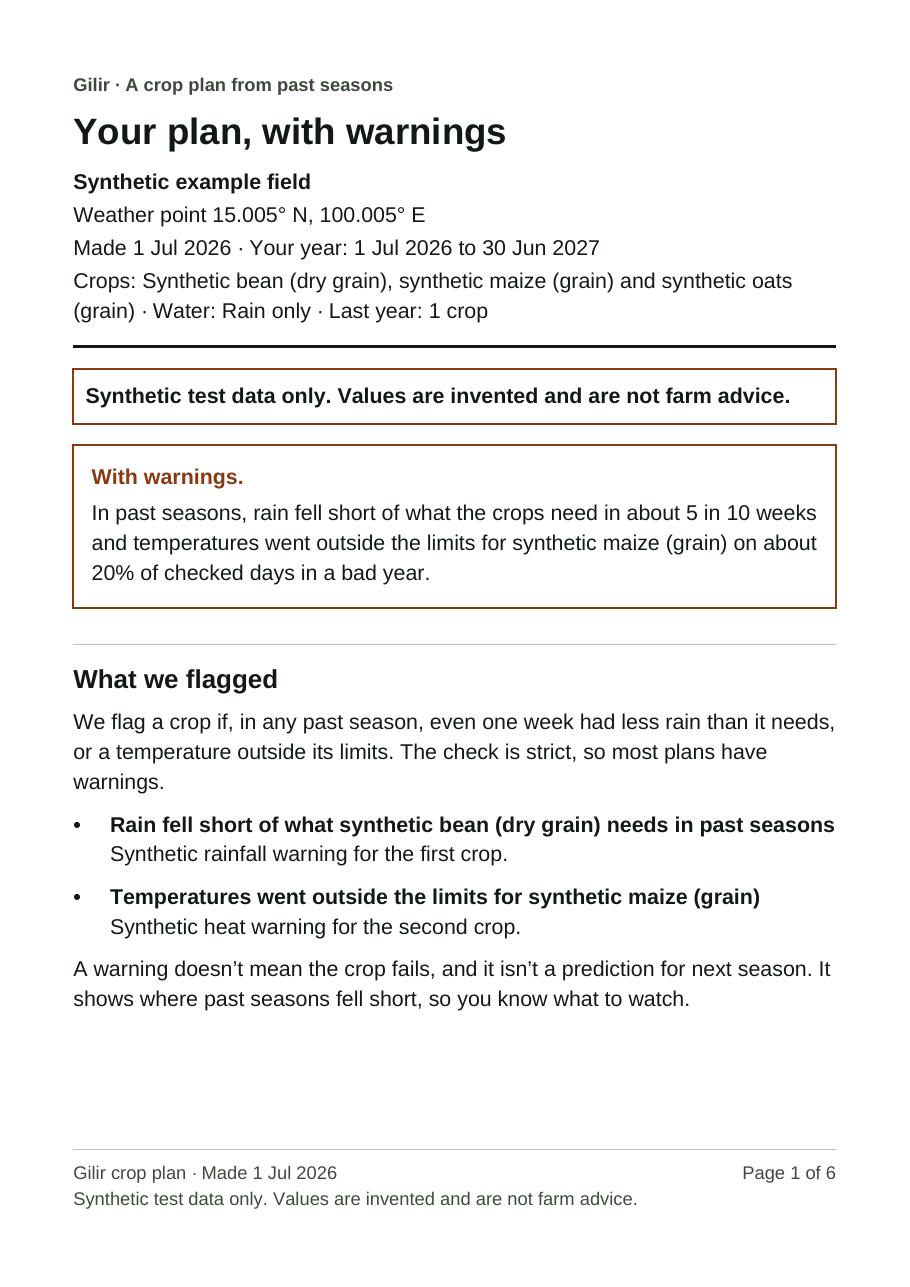
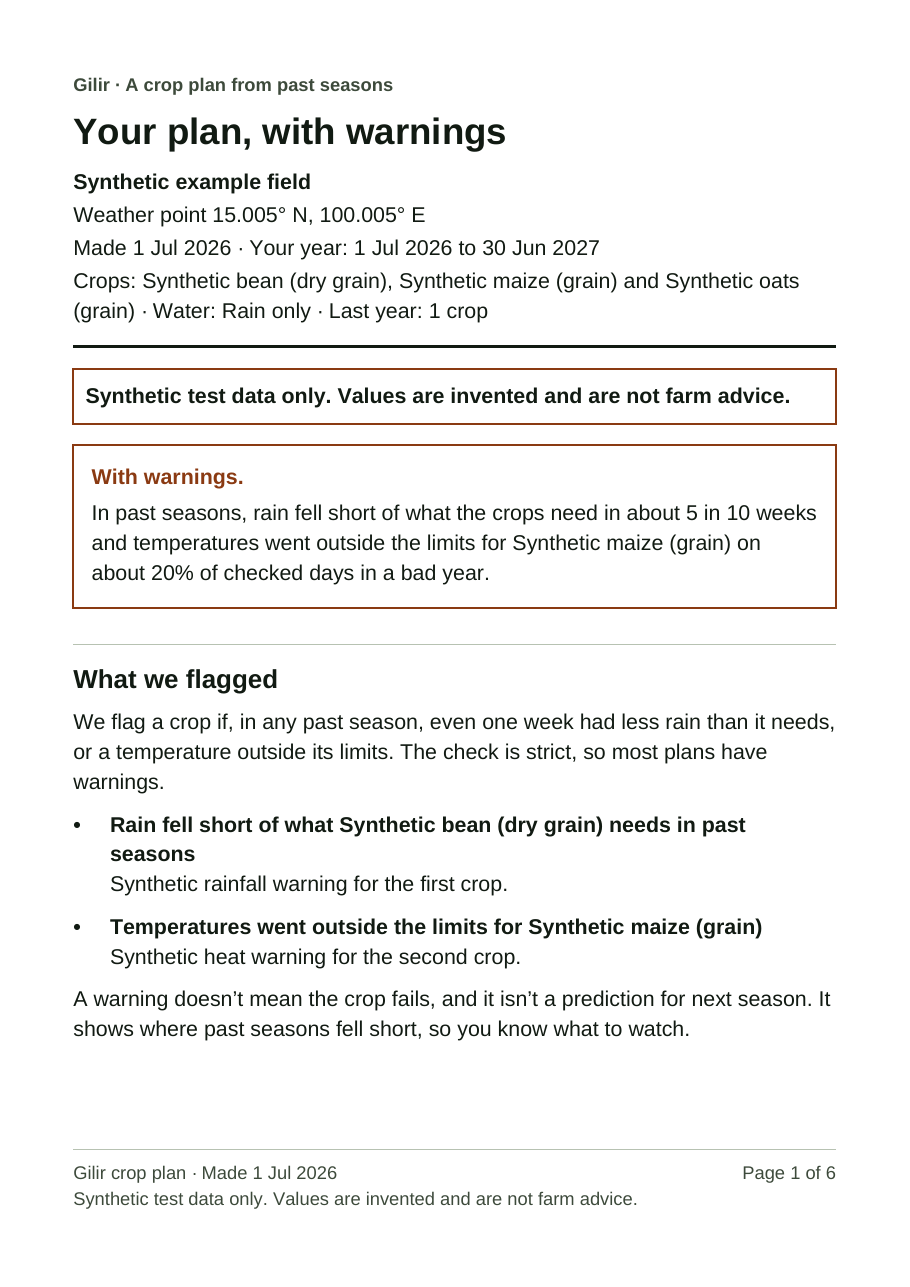
docs(F4): refresh the fixture evidence after the third review's fixes
variant-frozenLabels.pdf now prints each saved label with its own capital
and explains a changed plan on page 5, as page 4 does. Its pages 1 to 5
were rendered and looked at again; page 6 and the ten fixture pages
rendered byte-identical, and the three fixture PDFs are unchanged.
fixture-poppler.txt and fixture-playwright.txt hold the new runs, with
the Chromium full-device load among 23 storage cases.

README.md replaces the "too erratic for a test" note with that test,
records the real-engine re-render and the mutation runs, and says how
gap reasons, labels and no-plan sentences now read. inspection.md
records the changed pages and four real-engine pages looked at in
scratch.

Claude-Session: https://claude.ai/code/session_01DwR15oMch4WdwGA24XzcK2

diff --git a/docs/evidence/F4/README.md b/docs/evidence/F4/README.md
@@ -22,13 +22,13 @@ The browser checks ran in Chromium (Google Chrome for Testing 153.0.8010.12, hea
 
 | Key | Command | Observed |
 | --- | --- | --- |
-| V | `npx vitest run tests/frontend/persistence tests/frontend/pdf` | exit 0; 9 files, 217 tests passed; no `it.todo`, `it.skip`, `test.skip` or `test.fixme` is left in either folder |
+| V | `npx vitest run tests/frontend/persistence tests/frontend/pdf` | exit 0; 9 files, 231 tests passed; no `it.todo`, `it.skip`, `test.skip` or `test.fixme` is left in either folder |
 | C | `npm run check` | **FAILED**, exit 1, on a 4-core machine other sessions held at load average 13 to 28. Typegen and `tsc` were clean each time. The first run failed 28 tests in 11 files, every one a 5 s timeout or a Testing Library wait; the same 11 files rerun with `--maxWorkers=2` passed, 233 tests. After the every-variant export got a 30 s budget, two more runs each failed only `tests/engine/metrics/captured-climate.test.ts` "builds 25 seasons from bangkok's three committed product snapshots" at 5.7 s against 5 s, with 1,468 tests passed and 33 skipped. That file and `src/engine` are identical to `main`, and alone it passes in 2.9 s. `check:boundaries`, skipped after the test failure, passed alone: "Module boundaries passed." |
 | B | `npm run build` | exit 0; compiled in 9.3 s, TypeScript finished, every route built |
-| Ps | `env -u CLAUDECODE -u AI_AGENT PW_CHROMIUM=/opt/pw-browsers/chromium npx playwright test -c tests/frontend/persistence/playwright.config.ts storage.spec` | 22 passed, the version 2 restore and the newer-version cases from main among them ([output](fixture-playwright.txt)) |
+| Ps | `env -u CLAUDECODE -u AI_AGENT PW_CHROMIUM=/opt/pw-browsers/chromium npx playwright test -c tests/frontend/persistence/playwright.config.ts storage.spec` | 23 passed, the version 2 restore, the newer-version cases from main and the full-device load among them ([output](fixture-playwright.txt)) |
 | Pd | the same with `download.spec` | 7 passed ([output](fixture-playwright.txt)) |
-| E | `node --import tsx tests/frontend/pdf/evidence.ts docs/evidence/F4` | the four PDFs written. The three fixture files are byte-identical to the ones committed before the merge with main and the frozen-label change, and Pd checks each download against a fresh node render byte for byte. With `--all` and another folder it writes all 22 (6 states, 15 variants, the plan on Letter). The 21 that existed before the frozen-label change are byte-identical to the same 21 rendered from ac0a9b9 |
-| | `pdftoppm -r 110 -png <name>.pdf <name>` for the four committed PDFs | 16 page PNGs. After the frozen-label change the ten fixture pages rendered byte-identical, and the six `variant-frozenLabels` pages are new. (After the second review's fixes, only plan pages 3 and 4, warning plan page 4 and missing-data page 2 had changed, each by the new "Calculation methods" line.) |
+| E | `node --import tsx tests/frontend/pdf/evidence.ts docs/evidence/F4` | the four PDFs written. The three fixture files are byte-identical to the ones committed before the merge with main, the frozen-label change and the third review's fixes, and Pd checks each download against a fresh node render byte for byte. `variant-frozenLabels.pdf` changed in the third review's fixes and still has 6 pages. With `--all` and another folder it writes all 22 (6 states, 15 variants, the plan on Letter). The 21 that existed before the frozen-label change are byte-identical to the same 21 rendered from ac0a9b9 |
+| | `pdftoppm -r 110 -png <name>.pdf <name>` for the four committed PDFs | 16 page PNGs. After the frozen-label change the ten fixture pages rendered byte-identical, and the six `variant-frozenLabels` pages are new. After the third review's fixes the ten fixture pages and `variant-frozenLabels` page 6 rendered byte-identical, and its pages 1 to 5 changed. (After the second review's fixes, only plan pages 3 and 4, warning plan page 4 and missing-data page 2 had changed, each by the new "Calculation methods" line.) |
 | | `pdftoppm -r 110 -gray -png -f 1 -l 2 fixture-plan_with_warnings.pdf fixture-plan_with_warnings-gray` | 2 PNGs; every pixel was already gray, so they were stored as 8-bit gray with no loss. Rendered again after the second review's fixes, pixel-identical |
 | | `pdfinfo`, `pdffonts` and `pdftotext -layout` on the four committed PDFs | A4, 4, 4, 2 and 6 pages; title "Gilir crop plan, made 1 Jul 2026" or "Gilir status report, made 1 Jul 2026"; Creator and Producer "Gilir"; JavaScript no; fonts Helvetica and Helvetica-Bold, Type 1, WinAnsi, not embedded ([output](fixture-poppler.txt)) |
 | I | A person looked at every page image | [inspection.md](inspection.md): nothing clipped, every warning and source printed, the period stated, no calendar in the status report |
@@ -38,6 +38,8 @@ The browser checks ran in Chromium (Google Chrome for Testing 153.0.8010.12, hea
 | M | `git merge-tree --write-tree 73e1b6f HEAD`, then `tsc --noEmit`, `vitest run tests/frontend` and `check-boundaries.mjs` on that tree | 73e1b6f is the `main` that merged PR #42 at 54a76bc. Clean merge; `tsc` exit 0; 24 files, 533 tests passed, F1's onboarding tests among them; "Module boundaries passed." |
 | M2 | `git merge-tree --write-tree f79ffd7 HEAD` | **FAILED.** f79ffd7 is `main` after PR #45, the shared-contract change that made CompletedSnapshot version 2 and edited `storage.ts` and the persistence tests. The merge conflicts in `storage.ts`, `conventions.test.ts` and `record.test.ts`. A follow-up must resolve them before this branch can merge. Resolved by M3 |
 | M3 | `git fetch origin main`, then `git merge origin/main` (ec2ef22, after #45 and #46) | merged as ac0a9b9. The three conflicts were resolved keeping both sides. `storage.ts` takes `farmInputSchemaVersion`, `completedSnapshotSchemaVersion` and `jobCapabilitySchema` from the contracts and keeps this branch's version stamps, same-tick notice and full-device load; `conventions.test.ts` and `record.test.ts` expect both. Every other file the merge brought typechecks and builds (C, B) |
+| R3 | the review's 53 real engine snapshots (release fao56-hard-windows-2026-11-15 with the Bangkok and Pretoria weather in `docs/evidence/B2`; the Boise, Madrid and Fresno runs pair Bangkok weather with their own lookup point; each as version 1 and version 2), every fixture and every variant, rendered with `renderPdf` before and after the third review's fixes, then `pdftotext -layout` | Every version 1 text is unchanged except where a fix meant it to change. No line shows a crop ID made of several words on its own; 30 lines in 10 files did before. Such IDs remain only inside profile IDs in the "Crop profiles:" source list. Every "Checked against" line is in a plan; no status report has one. Scratch only, not kept |
+| Mut | each new test run against the code without its fix (the old line put back) | each one failed, and passed again with the fix. Storage: removing the same-tick wait fails the new dismiss test in Vitest and in Chromium; letting load swallow any write error fails the UnknownError and AbortError tests; dropping `writesOptional` fails the Chromium full-device test |
 
 ## What each card item rests on
 
@@ -45,11 +47,13 @@ The browser checks ran in Chromium (Google Chrome for Testing 153.0.8010.12, hea
 
 Snapshots of both contract versions are kept. Version 1 has no catalogue; version 2 carries the crop catalogue frozen when the plan completed. All six fixture states of each round trip through `localPlans` unchanged (`record.test.ts`), and a raw record holding either version restores after a reload in Chromium (`storage.spec`). Storage validates them with the shared `completedSnapshotSchema` and the active job with the shared `jobCapabilitySchema`, and declares no schema of its own.
 
-**A full device, blocked storage and an invalid old record give useful words, with no silent loss and no made-up defaults.** With a 256 KB quota, a save of incompressible data rejects with "This device has no room left to save Gilir.", the earlier state still loads, and a save that fits still works. In a sandboxed frame, `load`, `save` and `clear` reject with "This browser isn’t letting Gilir open or save your answers on this device." An old record written with raw IndexedDB loads its answers with the snapshot left out (null, never a default), the notice says "Your saved plan can’t be opened by this version of Gilir. Make the plan again to see it. Your answers are kept.", and the record sits unchanged in the set-aside record. A notice read in the same tick as that load, before it or after it, names the plan too. The notice survives a restart until dismissed and stays gone after a dismiss and a restart. Clearing site data while the page is open makes the next load resolve null, not reject. A newer database rejects "newer" and stays untouched. Every record, the state and the set-aside one, carries the FarmInput, CompletedSnapshot and RunManifest versions of the build that wrote it. So an older build refuses a newer build's records, or a snapshot whose input or run manifest is newer, instead of setting them aside or deleting them (`record.test.ts`). On a full device, a load that can't set an unreadable part aside still returns the readable answers, the notice still names that part, and the next save sets it aside first or rejects "full" with the old record kept. That is shown with the IndexedDB double in `record.test.ts`. Chromium's quota override makes that write fail only now and then. In three runs of a scratch probe with a 240 KB record and seven quotas from 380 to 600 KB, the load's write failed at three quotas, then two, then none. At the other quotas the record itself couldn't be written, or the load's write fit. Each time it failed, the notice named the plan. That is too erratic for a test. Another tab's upgrade is not blocked. A tab holding the database stops a save at the 5 s limit, and that save changed nothing. The farmer sees these words only once F1 shows them, so the screen half of this item is PARTIAL.
+**A full device, blocked storage and an invalid old record give useful words, with no silent loss and no made-up defaults.** With a 256 KB quota, a save of incompressible data rejects with "This device has no room left to save Gilir.", the earlier state still loads, and a save that fits still works. In a sandboxed frame, `load`, `save` and `clear` reject with "This browser isn’t letting Gilir open or save your answers on this device." An old record written with raw IndexedDB loads its answers with the snapshot left out (null, never a default), the notice says "Your saved plan can’t be opened by this version of Gilir. Make the plan again to see it. Your answers are kept.", and the record sits unchanged in the set-aside record. A notice read in the same tick as that load, before it or after it, names the plan too, and after a dismiss it doesn't come back. The notice survives a restart until dismissed and stays gone after a dismiss and a restart. Clearing site data while the page is open makes the next load resolve null, not reject. A newer database rejects "newer" and stays untouched. Every record, the state and the set-aside one, carries the FarmInput, CompletedSnapshot and RunManifest versions of the build that wrote it. So an older build refuses a newer build's records, or a snapshot whose input or run manifest is newer, instead of setting them aside or deleting them (`record.test.ts`). On a full device, a load that can't set an unreadable part aside still returns the readable answers, the notice still names that part, and the next save sets it aside first or rejects "full" with the old record kept. `record.test.ts` shows it with the IndexedDB double, where only QuotaExceededError lets load skip that write: UnknownError rejects "unavailable" and AbortError is retried. `storage.spec` shows the load in Chromium. It sets a 512 KB quota, writes a record holding an unreadable plan, and fills a second database until a write fails with QuotaExceededError. The load then returns the answers and writes nothing, the notice names the plan, and clear still works. That test passed 20 of 20 runs before it was committed. An earlier probe that only lowered the quota made the write fail now and then, which is why the test fills the origin instead. Another tab's upgrade is not blocked. A tab holding the database stops a save at the 5 s limit, and that save changed nothing. The farmer sees these words only once F1 shows them, so the screen half of this item is PARTIAL.
 
 **The fixture lab never touches the farmer's database.** A save under `/dev/fixtures/` is invisible at `/` and the reverse, `indexedDB.databases()` lists `gilir` and `gilir-fixture-lab`, and Clear in the lab leaves the farmer's state.
 
-**A PDF names each crop by the label saved with the result.** `cropName` in `src/client/pdf/text.ts` decides every crop name from the snapshot: the answers line, the status sentence, flags and warnings, the calendar rows, heat and cold, the changes from last year, the duration proof, What’s missing, the unassessed checks, last year’s rows and the crop profiles. A version 2 snapshot prints its frozen label, made printable. A version 1 snapshot, a crop its frozen catalogue lacks, and a label with a letter the fonts can’t draw print the name made from the ID, such as "Synthetic old crop", never a "?". `compose.test.ts` and `export.test.ts` check each case, the export ones on the text read back from the PDF. [inspection.md](inspection.md) records the six pages of `variant-frozenLabels.pdf` and the version 2 status reports looked at in scratch.
+**A PDF names each crop by the label saved with the result.** `cropName` in `src/client/pdf/text.ts` decides every crop name from the snapshot: the answers line, the status sentence, flags and warnings, the calendar rows, heat and cold, the changes from last year, the duration proof, What’s missing, the unassessed checks, last year’s rows and the crop profiles. A version 2 snapshot prints its frozen label, made printable, with its own capitals ("Brussels sprouts"). A version 1 snapshot, a crop its frozen catalogue lacks, and a label with a letter the fonts can’t draw print the name made from the ID, such as "Synthetic old crop", never a "?"; inside a sentence it is lower case. A crop list that holds a name with "and" or a comma in it is split by semicolons ("Pumpkin and winter squash; Squash and zucchini"). The registry's own reason for a gap names the crop by its ID ("No released common-bean-dry profile applies at this location."), so the PDF puts the crop's name in place of each of the gap's own IDs that stands alone. An ID inside a longer one, such as a profile ID, is left as it is, and the "Crop profiles:" source line still lists each profile ID next to the crop's name. A date that is part of an ID, such as catalogue fao56-hard-windows-2026-11-15, is no longer rewritten as a date. `compose.test.ts` takes real gaps from `resolveRegistry` and real proofs from `findCalendar`. `compose.test.ts` and `export.test.ts` check each case, the export ones on the text read back from the PDF. [inspection.md](inspection.md) records the six pages of `variant-frozenLabels.pdf` and the version 2 status reports looked at in scratch.
+
+**Each sentence is true of the result it prints.** A no-fit report from a duration proof asks for crops that grow faster, and for fewer crops only when more than one was chosen. A structural proof comes only after the crops' days fit in the year, so the hard planting windows, or the follow rules when the run had any, stopped them. The report says so with the start date, and suggests another start date or other crops, and fewer crops when there are several. It names no date that would work. One rice crop at Bangkok from 15 Jan 2027 gives "The time of year when your crop can be planted leaves no way to fit it into one year from your start date, 15 Jan 2027." A no-plan report whose last-year rotation was scored lists that rotation's numbers in past seasons and the rows the farmer gave, instead of "No numbers to compare." A no-plan report says "Weather from 25 past seasons", never "Checked against", since nothing was checked. Every crop profile note is headed "About the growing details for <crop>", because most notes say which FAO-56 row was read, not what the water check leaves out.
 
 **PDFs from a plan, a warning plan and the missing-data fixture open offline and were inspected.** Each downloads as `gilir-plan-2026-07-01.pdf`, starts with `%PDF-`, equals the node render byte for byte, and opens in Chromium's PDF viewer with the network off, which shows its title and page count. [inspection.md](inspection.md) records every page. After `preparePdf`, a download works with the network off. Once the PDF code has loaded, making all six files sends no request. With storage denied, `exportPdf` still returns a PDF.
 
@@ -58,6 +62,7 @@ Snapshots of both contract versions are kept. Version 1 has no catalogue; versio
 - **NOT RUN.** Live end-to-end evidence with the assembled application and a real backend. Cards I1 to I3 own it.
 - **NOT RUN.** Safari and Firefox. Every browser case ran in Chromium only.
 - **NOT RUN.** A real cheap phone. The 6x throttle slows only the page's main thread, not IndexedDB's disk work.
+- **Not shown.** The registry's "can be confirmed" and "Ambiguous profile precedence" gap reasons from the real engine. The current release gives neither at Bangkok, and its validation rejects ambiguous precedence. `compose.test.ts` writes the ambiguous one as the registry would; the other is not tested. Real engine runs exist only for Bangkok and Pretoria weather.
 - **NOT RUN.** The specs under the root `playwright.config.ts`. Its web server starts `next dev`. Both configs list the same 24 cases.
 - **Not kept here.** The PDFs of the other three result states, the other 14 variants and the Letter plan. The layout and export tests render every one of them on A4 and Letter; `evidence.ts --all` writes them for a person to look at.
 - **PARTIAL.** The farmer seeing the storage words and the set-aside notice. That needs F1 to show `readStorageNotice()` and `storageProblem(error).text`.

diff --git a/docs/evidence/F4/inspection.md b/docs/evidence/F4/inspection.md
@@ -34,17 +34,17 @@ Each entry records clipping, warnings, source details, the data period, and read
 
 ## variant-frozenLabels.pdf (warning plan from a version 2 snapshot, 6 pages)
 
-The snapshot is version 2. Its frozen catalogue names `synthetic-crop`, `synthetic-second-crop` and `synthetic-third-crop` "Synthetic bean (dry grain)", "Synthetic maize (grain)" and "Synthetic oats (grain)", labels that a name made from the ID can't produce. The old rotation's `synthetic-old-crop` is not in that catalogue. Each page was checked for a selected crop named from its ID, and none is: `pdftotext` finds no "synthetic crop", "synthetic second crop" or "synthetic third crop" ([text](fixture-poppler.txt)).
+The snapshot is version 2. Its frozen catalogue names `synthetic-crop`, `synthetic-second-crop` and `synthetic-third-crop` "Synthetic bean (dry grain)", "Synthetic maize (grain)" and "Synthetic oats (grain)", labels that a name made from the ID can't produce. The old rotation's `synthetic-old-crop` is not in that catalogue. Each page was checked for a selected crop named from its ID, and none is: `pdftotext` finds no "synthetic crop", "synthetic second crop" or "synthetic third crop" ([text](fixture-poppler.txt)). Since the third review's fixes each label prints with its own capital letter inside a sentence too, and pages 1 to 5 were looked at again; page 6 rendered byte-identical.
 
-**Page 1** ([render](variant-frozenLabels-1.png)). The title is "Your plan, with warnings". The answers line "Crops: Synthetic bean (dry grain), synthetic maize (grain) and synthetic oats (grain) · Water: Rain only · Last year: 1 crop" wraps onto a second line, whole. The warn-brown status box says rain fell short in about 5 in 10 weeks "and temperatures went outside the limits for synthetic maize (grain) on about 20% of checked days in a bad year." "What we flagged" heads its two warnings "Rain fell short of what synthetic bean (dry grain) needs in past seasons" and "Temperatures went outside the limits for synthetic maize (grain)", each with the snapshot's message. Nothing is clipped.
+**Page 1** ([render](variant-frozenLabels-1.png)). The title is "Your plan, with warnings". The answers line "Crops: Synthetic bean (dry grain), Synthetic maize (grain) and Synthetic oats (grain) · Water: Rain only · Last year: 1 crop" wraps onto a second line, whole. The warn-brown status box says rain fell short in about 5 in 10 weeks "and temperatures went outside the limits for Synthetic maize (grain) on about 20% of checked days in a bad year." "What we flagged" heads its two warnings "Rain fell short of what Synthetic bean (dry grain) needs in past seasons", which now wraps after "past", and "Temperatures went outside the limits for Synthetic maize (grain)", each with the snapshot's message. Nothing is clipped.
 
-**Page 2** ([render](variant-frozenLabels-2.png)). The timeline has three crop bars, three after-harvest marks and the year's last no-crop stretch, numbered 1 to 6; the narrow stretch 4 has its number below the track. Rows 1, 3 and 5 are headed "Synthetic bean (dry grain)", "Synthetic maize (grain)" and "Synthetic oats (grain)". Each no-crop row says "The first 7 days are the time after the synthetic … harvest" with the label of the crop before it. Nothing is clipped.
+**Page 2** ([render](variant-frozenLabels-2.png)). The timeline has three crop bars, three after-harvest marks and the year's last no-crop stretch, numbered 1 to 6; the narrow stretch 4 has its number below the track. Rows 1, 3 and 5 are headed "Synthetic bean (dry grain)", "Synthetic maize (grain)" and "Synthetic oats (grain)". Each no-crop row says "The first 7 days are the time after the Synthetic … harvest" with the label of the crop before it. Nothing is clipped.
 
-**Page 3** ([render](variant-frozenLabels-3.png)). "Why this plan ranked first" lists its four rows. Under "Shown, but not used to rank", "Heat and cold" ends "Outside the limits in past seasons: synthetic maize (grain).", "No checked day outside the limits for synthetic bean (dry grain)." and "Not assessed for synthetic oats (grain)." Nothing is clipped.
+**Page 3** ([render](variant-frozenLabels-3.png)). "Why this plan ranked first" lists its four rows. Under "Shown, but not used to rank", "Heat and cold" ends "Outside the limits in past seasons: Synthetic maize (grain).", "No checked day outside the limits for Synthetic bean (dry grain)." and "Not assessed for Synthetic oats (grain)." Nothing is clipped.
 
-**Page 4** ([render](variant-frozenLabels-4.png)). The period line, then "Compared with last year": the new plan ranked ahead, five comparison rows, and the first change "Added: synthetic oats (grain), 6 Jan to 6 Mar 2027." Nothing is clipped.
+**Page 4** ([render](variant-frozenLabels-4.png)). The period line, then "Compared with last year": the new plan ranked ahead, five comparison rows, and the first change "Added: Synthetic oats (grain), 6 Jan to 6 Mar 2027." Nothing is clipped.
 
-**Page 5** ([render](variant-frozenLabels-5.png)). The changes go on: "Not in the new plan: synthetic old crop, 1 Mar to 9 Apr 2027 in last year’s rotation." names the crop the catalogue lacks from its ID, "Plant synthetic bean (dry grain) 7 days later", "Plant synthetic maize (grain) on the same day" and "Synthetic maize (grain) moves from first to second in the order." "What we couldn’t check" is headed "Heat and cold limits for synthetic oats (grain)". "How this was worked out" prints the fixture's own engine sentence, "the existing rotation ranks first in this example", which this variant inherits from `changedBaseline` and the PDF prints as written; it is not a crop name. Nothing is clipped.
+**Page 5** ([render](variant-frozenLabels-5.png)). The changes go on: "Not in the new plan: synthetic old crop, 1 Mar to 9 Apr 2027 in last year’s rotation." names the crop the catalogue lacks from its ID, in lower case, "Plant Synthetic bean (dry grain) 7 days later", "Plant Synthetic maize (grain) on the same day" and "Synthetic maize (grain) moves from first to second in the order." "What we couldn’t check" is headed "Heat and cold limits for Synthetic oats (grain)". "How this was worked out" now reads "Synthetic result: the new plan ranks ahead of the existing rotation in this example.", which agrees with page 4. Until the third review it printed the plan fixture's "the existing rotation ranks first", which `changedBaseline` inherited. Nothing is clipped.
 
 **Page 6** ([render](variant-frozenLabels-6.png)). "Crop profiles: Synthetic bean (dry grain) synthetic-synthetic-crop-profile synthetic-v1; Synthetic maize (grain) …; Synthetic oats (grain) …", then the versions, with "crop list synthetic-catalogue", the frozen catalogue's version. The closing lines follow. The footer reads "Page 6 of 6".
 
@@ -58,7 +58,7 @@ These were made outside this folder from fixtures and variants and are not kept.
 
 - **variant-freeAtYearEnd.pdf, page 1.** The year ends in a 7-day after-harvest bar. Its row number 4 sits below the track, to the right of its own tick, and no tick runs through it.
 - **The plan fixture for a `vi-VN` reader, page 1.** The timeline labels the months 7 to 6 with numbers, all twelve, because the Vietnamese short names are wider than a month.
-- **The no_calendar_fit fixture with an assessed, unranked baseline, page 1.** "Compared with last year" gives the verdict and "How they compare: No numbers to compare." and has no "Changes from last year" and no "No changes" line.
+- **The no_calendar_fit fixture with an assessed, unranked baseline, page 1.** "Compared with last year" gives the verdict and "How they compare: No numbers to compare." and has no "Changes from last year" and no "No changes" line. The third review found that page said the rotation "is shown" while showing no numbers; it now lists them (see below).
 - **variant-manySources.pdf, as text (`pdftotext -layout`).** Each weather product line ends with "Version synthetic-v1." and the product's URL as plain text.
 
 ## Pages looked at for the second review's fixes
@@ -74,10 +74,19 @@ Made in scratch with `renderPdf` for an `en-GB` reader at 80 dpi and not kept. E
 
 Made in scratch with `renderPdf` for an `en-GB` reader at 80 dpi and not kept. Each is a fixture made version 2 with the test helper `frozen`, which the full `completedSnapshotV2Schema` accepts.
 
-- **insufficient_data, its one crop saved as "Synthetic bean (dry grain)", with a crop_profile gap and a last-year crop `synthetic-retired-crop` the catalogue lacks, pages 1 and 2.** The answers line, "Growing details for synthetic bean (dry grain) in this place" under "What’s missing", the first row of "What you told us about last year (not scored)" and the crop profile line all print the label. The retired crop's row is headed "Synthetic retired crop", from its ID.
+- **insufficient_data, its one crop saved as "Synthetic bean (dry grain)", with a crop_profile gap and a last-year crop `synthetic-retired-crop` the catalogue lacks, pages 1 and 2.** The answers line, "Growing details for synthetic bean (dry grain) in this place" under "What’s missing" (since the third review "Synthetic bean (dry grain)", with the label's capital), the first row of "What you told us about last year (not scored)" and the crop profile line all print the label. The retired crop's row is headed "Synthetic retired crop", from its ID.
 - **no_calendar_fit with the same label, page 1.** "Each crop needs at least:" lists "Synthetic bean (dry grain): at least 366 days", and last year's row is headed by the label.
 - **The plan fixture with the label "ถั่ว synthetic", page 1.** The fonts can't draw the Thai letters, so the answers line and calendar row print "Synthetic crop", from the ID, and no "?" appears.
 - **Every other committed page.** The three fixture PDFs hold version 1 snapshots and rendered byte-identical to the files committed before this change, and so did all 21 files `evidence.ts --all` wrote before it.
+
+## Pages looked at for the third review's fixes
+
+Made in scratch with `renderPdf` for an `en-GB` reader from the review's real engine snapshots (release fao56-hard-windows-2026-11-15, captured Bangkok weather; the Fresno run pairs Bangkok weather with a Fresno lookup point), version 2, at 80 dpi, and not kept.
+
+- **One rice crop at Bangkok from 15 Jan 2027, no_calendar_fit by structural proof, page 1.** Under the engine's two constraints and "We checked 209 ways of placing them.", the page says "The time of year when your crop can be planted leaves no way to fit it into one year from your start date, 15 Jan 2027. Try another start date or another crop, then make the plan again." It no longer says to choose fewer or faster crops. The farm section opens "Weather from 25 past seasons, Jan 2001 to Jan 2026." Nothing is clipped.
+- **Rice and soybean at Bangkok with last year's rice scored, no_calendar_fit, pages 1 and 2.** The advice names the planting times of "your crops" and offers fewer crops among the choices. "Compared with last year" says the rotation is shown for comparison only, then "Last year’s rotation in past seasons" lists eight numbers, each under its own head, such as "95%" under "Weeks with less rain than the crops need" and "Not available" with the engine's reason under "Checked days outside temperature limits in a bad year", then "What you told us about last year" with its three rows. No line says "No numbers to compare." Nothing is clipped.
+- **Rice, Brussels sprouts and pumpkin and winter squash at Bangkok, insufficient_data, page 1.** The answers line reads "Rice (paddy); Brussels sprouts; Pumpkin and winter squash". Under "What’s missing", "Growing details for Brussels sprouts in this place" is followed by "No released Brussels sprouts profile applies at this location.", where the reason used to print `brussels-sprouts`. Nothing is clipped.
+- **Eight crops at a Fresno lookup point, insufficient_data, page 1.** The answers line splits the eight labels with semicolons over three lines, so "Pumpkin and winter squash; Squash and zucchini" reads as two crops. Each of the five gaps names its crop by its label in the head and in the reason. Nothing is clipped.
 
 ## What this inspection does not show
 
